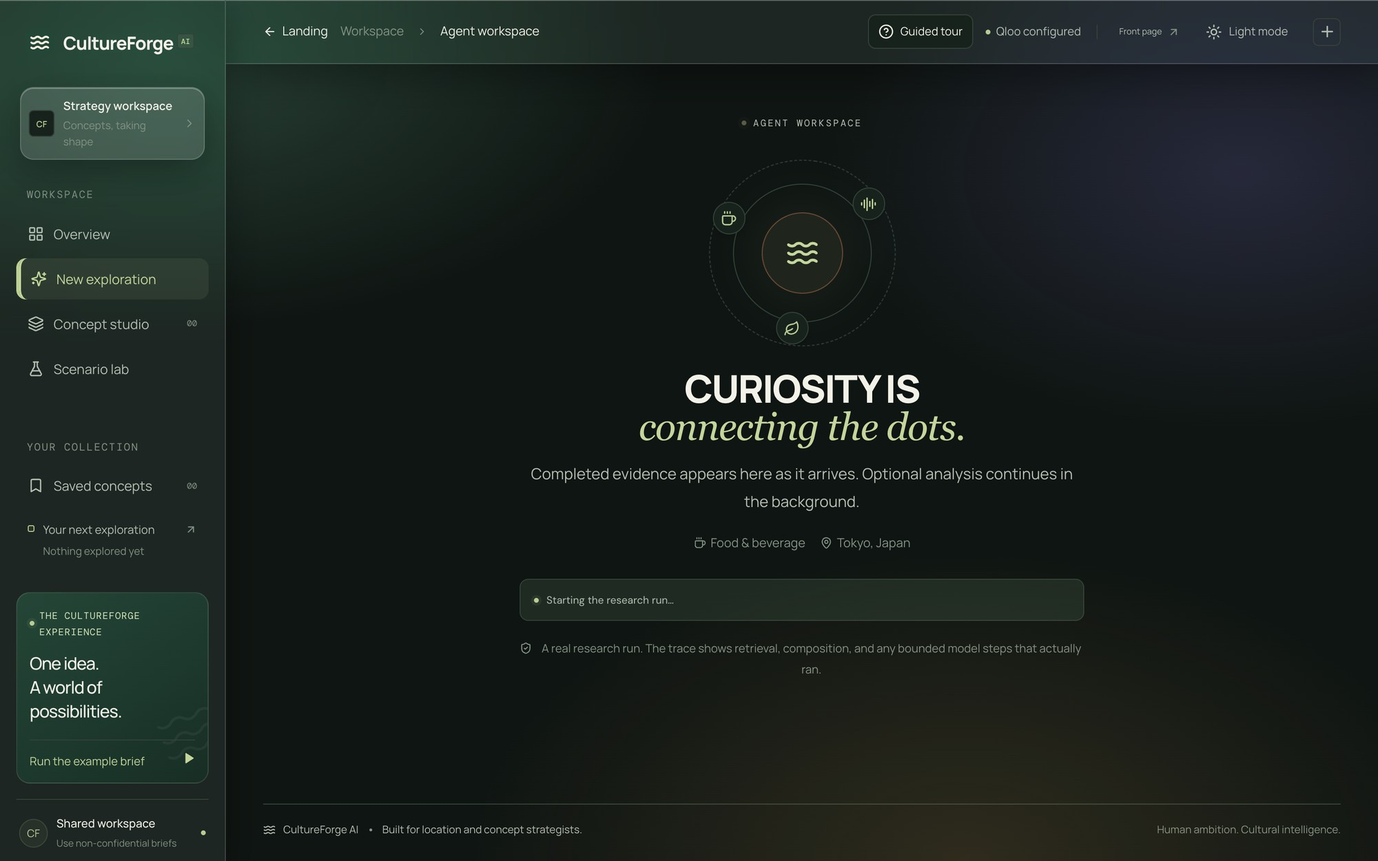
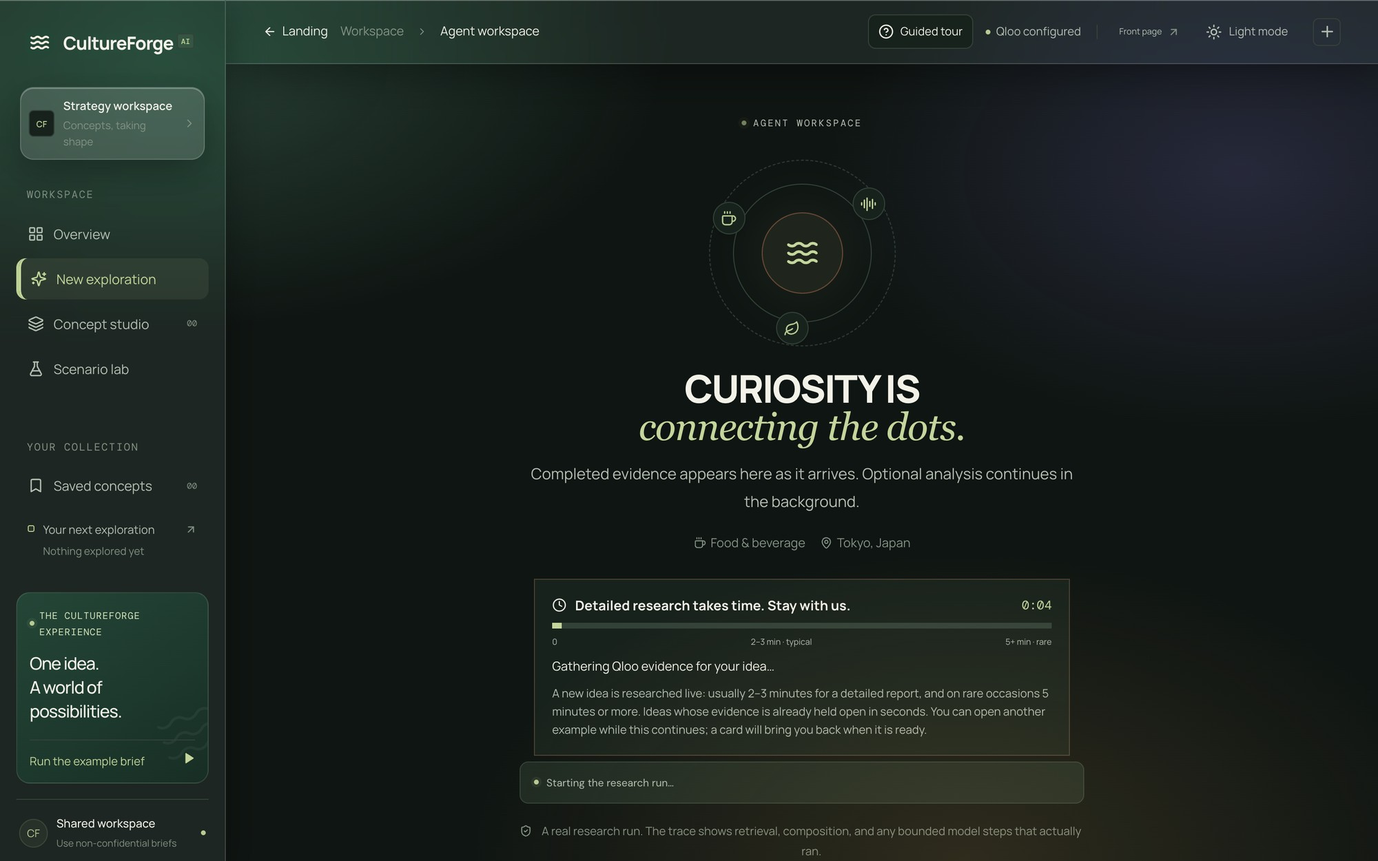
Set run-time expectations and make the map the main thing
- Tell the reader up front that a new idea takes 2-3 minutes (rarely 5+),
  on the brief form, the seed step and the workspace, with a running clock.
- Map: taller canvas, Layers panel collapsed by default, named pins, a
  plain-words key, hover cards, halos on cited pins, higher-contrast
  basemap.
- README: map and workspace screenshots.

diff --git a/src/App.tsx b/src/App.tsx
@@ -18,6 +18,7 @@ import { IntentSummary } from './components/IntentSummary'
 import { AgentTrace } from './components/AgentTrace'
 import { RunMonitor } from './components/RunMonitor'
 import { ExecutiveBrief } from './components/ExecutiveBrief'
+import { RunExpectation, RUN_TIME_NOTE } from './components/RunExpectation'
 import { TasteSeeds } from './components/TasteSeeds'
 import { AudienceComparison } from './components/AudienceComparison'
 import { AnchorTournament } from './components/AnchorTournament'
@@ -730,12 +731,12 @@ function Create({ form, setForm, submit, runExample, error, back }: { form: Proj
   const allGoals = [...new Set([...objectives, ...form.objectives])]
   function toggle(goal: string) { setForm({...form, objectives: form.objectives.includes(goal) ? form.objectives.filter(value => value !== goal) : [...form.objectives, goal]}) }
   const add = () => { const value=custom.trim(); if(value && !form.objectives.includes(value)) toggle(value); setCustom('') }
-  return <div className="create-page" data-tour="brief"><button className="back-link" onClick={back}><ArrowLeft size={14}/> Back to overview</button><div className="page-heading"><div><Eyebrow>THE BEGINNING OF SOMETHING GOOD</Eyebrow><h1>Tell us what you’re<br/><em>dreaming of.</em></h1><p>You bring the ambition. We’ll find the cultural connections.</p></div><span className="page-index">EXPLORATION / 001</span></div><div className="create-layout"><form className="creation-form panel" onSubmit={event => { event.preventDefault(); submit() }}>{error && <div className="api-error" role="alert">{error}</div>}<div className="form-section"><div className="form-section-title"><span>01</span><div><h3>What are you building?</h3><p>Choose the world your idea belongs in.</p></div></div><label className="field"><span>Business idea</span><input id="brief-idea" maxLength={160} value={form.businessIdea ?? ''} onChange={event => setForm({...form, businessIdea: event.target.value})} placeholder="e.g. Artisan bakery, record shop, ceramics studio"/><small>Specific categories help Qloo filter references. Availability and demand still need testing.</small></label><div className="business-types">{types.map(({label,icon:Icon})=><button type="button" className={form.businessType===label?'business-tile selected':'business-tile'} aria-pressed={form.businessType===label} key={label} onClick={()=>setForm({...form,businessType:label})}><Icon size={20}/><span>{label}</span>{form.businessType===label&&<Check size={12}/>}</button>)}</div></div><div className="form-section"><div className="form-section-title"><span>02</span><div><h3>Who do you want to move?</h3><p>Describe the people at the heart of your idea.</p></div></div><label className="field"><span>Target audience</span><div className="input-with-icon"><Users size={16}/><input required minLength={2} maxLength={240} value={form.audience} onChange={event=>setForm({...form,audience:event.target.value})}/></div></label><div className="preset-row"><span>TRY</span>{audiencePresets.slice(0,3).map(preset=><button type="button" key={preset} onClick={()=>setForm({...form,audience:preset})}>{preset}<Plus size={10}/></button>)}</div><div className="field-grid"><label className="field"><span>Location</span><div className="input-with-icon"><MapPin size={16}/><input id="brief-location" required minLength={2} maxLength={160} value={form.location} onChange={event=>setForm({...form,location:event.target.value})}/></div></label><label className="field"><span>Starting budget</span><select value={form.budget} onChange={event=>setForm({...form,budget:event.target.value})}>{['Under $25k','$25k – $50k','$50k – $100k','$100k+','Still figuring it out'].map(budget=><option key={budget}>{budget}</option>)}</select></label></div></div><div className="form-section"><div className="form-section-title"><span>03</span><div><h3>What would success feel like?</h3><p>Select the things that matter to you.</p></div></div><div className="goal-grid">{allGoals.map(goal=><button type="button" className={`goal-chip ${form.objectives.includes(goal)?'selected':''}`} aria-pressed={form.objectives.includes(goal)} key={goal} onClick={()=>toggle(goal)}><span>{form.objectives.includes(goal)?<Check size={12}/>:<Plus size={12}/>}</span>{goal}</button>)}</div><div className="custom-goal"><input aria-label="Custom objective" placeholder="Something else on your mind?" value={custom} onChange={event=>setCustom(event.target.value)} onKeyDown={event=>{if(event.key==='Enter'){event.preventDefault();add()}}}/><button type="button" onClick={add} disabled={!custom.trim()} aria-label="Add custom objective"><Plus size={15}/></button></div></div><div className="form-submit-row"><span><ShieldCheck size={14}/> Your vision stays yours.</span><Button type="submit">Find my cultural edge <ArrowUpRight size={17}/></Button></div></form><aside className="creation-aside"><ExamplePicker onRun={runExample}/><div className="brief-preview panel"><span className="small-cap"><span className="orange-dot"/> YOUR EXPLORATION, AT A GLANCE</span><div className="brief-art"><Fingerprint size={52} strokeWidth={1}/><span/><span/></div><h3>A little context.<br/><em>A lot of possibility.</em></h3><dl><div><dt>Business</dt><dd>{form.businessIdea || form.businessType}</dd></div><div><dt>Location</dt><dd>{form.location || 'Your neighborhood'}</dd></div><div><dt>Budget</dt><dd>{form.budget}</dd></div></dl><div className="brief-deliverables"><span><Check size={13}/> Up to 3 concept directions</span><span><Check size={13}/> Cultural signals & evidence</span><span><Check size={13}/> Audience scenario comparison</span></div></div><div className="curiosity-note"><Lightbulb size={18}/><p><strong>Get specific. Stay curious.</strong>The most interesting connections often start with the smallest details.</p></div></aside></div></div>
+  return <div className="create-page" data-tour="brief"><button className="back-link" onClick={back}><ArrowLeft size={14}/> Back to overview</button><div className="page-heading"><div><Eyebrow>THE BEGINNING OF SOMETHING GOOD</Eyebrow><h1>Tell us what you’re<br/><em>dreaming of.</em></h1><p>You bring the ambition. We’ll find the cultural connections.</p></div><span className="page-index">EXPLORATION / 001</span></div><div className="create-layout"><form className="creation-form panel" onSubmit={event => { event.preventDefault(); submit() }}>{error && <div className="api-error" role="alert">{error}</div>}<div className="form-section"><div className="form-section-title"><span>01</span><div><h3>What are you building?</h3><p>Choose the world your idea belongs in.</p></div></div><label className="field"><span>Business idea</span><input id="brief-idea" maxLength={160} value={form.businessIdea ?? ''} onChange={event => setForm({...form, businessIdea: event.target.value})} placeholder="e.g. Artisan bakery, record shop, ceramics studio"/><small>Specific categories help Qloo filter references. Availability and demand still need testing.</small></label><div className="business-types">{types.map(({label,icon:Icon})=><button type="button" className={form.businessType===label?'business-tile selected':'business-tile'} aria-pressed={form.businessType===label} key={label} onClick={()=>setForm({...form,businessType:label})}><Icon size={20}/><span>{label}</span>{form.businessType===label&&<Check size={12}/>}</button>)}</div></div><div className="form-section"><div className="form-section-title"><span>02</span><div><h3>Who do you want to move?</h3><p>Describe the people at the heart of your idea.</p></div></div><label className="field"><span>Target audience</span><div className="input-with-icon"><Users size={16}/><input required minLength={2} maxLength={240} value={form.audience} onChange={event=>setForm({...form,audience:event.target.value})}/></div></label><div className="preset-row"><span>TRY</span>{audiencePresets.slice(0,3).map(preset=><button type="button" key={preset} onClick={()=>setForm({...form,audience:preset})}>{preset}<Plus size={10}/></button>)}</div><div className="field-grid"><label className="field"><span>Location</span><div className="input-with-icon"><MapPin size={16}/><input id="brief-location" required minLength={2} maxLength={160} value={form.location} onChange={event=>setForm({...form,location:event.target.value})}/></div></label><label className="field"><span>Starting budget</span><select value={form.budget} onChange={event=>setForm({...form,budget:event.target.value})}>{['Under $25k','$25k – $50k','$50k – $100k','$100k+','Still figuring it out'].map(budget=><option key={budget}>{budget}</option>)}</select></label></div></div><div className="form-section"><div className="form-section-title"><span>03</span><div><h3>What would success feel like?</h3><p>Select the things that matter to you.</p></div></div><div className="goal-grid">{allGoals.map(goal=><button type="button" className={`goal-chip ${form.objectives.includes(goal)?'selected':''}`} aria-pressed={form.objectives.includes(goal)} key={goal} onClick={()=>toggle(goal)}><span>{form.objectives.includes(goal)?<Check size={12}/>:<Plus size={12}/>}</span>{goal}</button>)}</div><div className="custom-goal"><input aria-label="Custom objective" placeholder="Something else on your mind?" value={custom} onChange={event=>setCustom(event.target.value)} onKeyDown={event=>{if(event.key==='Enter'){event.preventDefault();add()}}}/><button type="button" onClick={add} disabled={!custom.trim()} aria-label="Add custom objective"><Plus size={15}/></button></div></div><div className="form-submit-row"><span><ShieldCheck size={14}/> Your vision stays yours.</span><small className="submit-time-note">{RUN_TIME_NOTE}</small><Button type="submit">Find my cultural edge <ArrowUpRight size={17}/></Button></div></form><aside className="creation-aside"><ExamplePicker onRun={runExample}/><div className="brief-preview panel"><span className="small-cap"><span className="orange-dot"/> YOUR EXPLORATION, AT A GLANCE</span><div className="brief-art"><Fingerprint size={52} strokeWidth={1}/><span/><span/></div><h3>A little context.<br/><em>A lot of possibility.</em></h3><dl><div><dt>Business</dt><dd>{form.businessIdea || form.businessType}</dd></div><div><dt>Location</dt><dd>{form.location || 'Your neighborhood'}</dd></div><div><dt>Budget</dt><dd>{form.budget}</dd></div></dl><div className="brief-deliverables"><span><Check size={13}/> Up to 3 concept directions</span><span><Check size={13}/> Cultural signals & evidence</span><span><Check size={13}/> Audience scenario comparison</span></div></div><div className="curiosity-note"><Lightbulb size={18}/><p><strong>Get specific. Stay curious.</strong>The most interesting connections often start with the smallest details.</p></div></aside></div></div>
 }
 function Progress({project,runId,onComplete,onClarify,onGiveUp,onRetry,onChangeLocation}:{project:ProjectRequest;runId?:string;onComplete?:(result:GenerateResponse)=>void;onClarify?:(ask:ClarificationAsk)=>void;onGiveUp?:()=>void;onRetry?:()=>void;onChangeLocation?:()=>void}) {
   // The steps are lit by the agent's real events, not by a timer. A run that
   // takes twenty-five seconds must not show every step as complete.
-  return <div className="progress-page"><span className="small-cap"><span className="orange-dot pulse"/> AGENT WORKSPACE</span><div className="agent-orbit"><div className="orbit-outer"/><div className="orbit-middle"/><span className="orbit-icon"><Waves size={35}/></span><span className="satellite sat-one"><Coffee size={17}/></span><span className="satellite sat-two"><AudioLines size={17}/></span><span className="satellite sat-three"><Leaf size={17}/></span></div><h1>Curiosity is<br/><em>connecting the dots.</em></h1><p>Completed evidence appears here as it arrives. Optional analysis continues in the background.</p><div className="progress-context"><span><BusinessIcon type={project.businessType} size={13}/>{project.businessType}</span><span><MapPin size={13}/>{project.location}</span></div>{runId&&<AgentTrace key={runId} runId={runId} onComplete={onComplete as (r:GenerateResponse)=>void} onClarify={onClarify as (a:ClarificationAsk)=>void} onGiveUp={onGiveUp} onRetry={onRetry} onChangeLocation={onChangeLocation}/>}<span className="progress-footnote"><ShieldCheck size={13}/> {runId?'A real research run. The trace shows retrieval, composition, and any bounded model steps that actually ran.':'Waiting for the backend. The answer comes back with the Qloo calls that produced it, and what it cost.'}</span></div>
+  return <div className="progress-page"><span className="small-cap"><span className="orange-dot pulse"/> AGENT WORKSPACE</span><div className="agent-orbit"><div className="orbit-outer"/><div className="orbit-middle"/><span className="orbit-icon"><Waves size={35}/></span><span className="satellite sat-one"><Coffee size={17}/></span><span className="satellite sat-two"><AudioLines size={17}/></span><span className="satellite sat-three"><Leaf size={17}/></span></div><h1>Curiosity is<br/><em>connecting the dots.</em></h1><p>Completed evidence appears here as it arrives. Optional analysis continues in the background.</p><div className="progress-context"><span><BusinessIcon type={project.businessType} size={13}/>{project.businessType}</span><span><MapPin size={13}/>{project.location}</span></div><RunExpectation runId={runId}/>{runId&&<AgentTrace key={runId} runId={runId} onComplete={onComplete as (r:GenerateResponse)=>void} onClarify={onClarify as (a:ClarificationAsk)=>void} onGiveUp={onGiveUp} onRetry={onRetry} onChangeLocation={onChangeLocation}/>}<span className="progress-footnote"><ShieldCheck size={13}/> {runId?'A real research run. The trace shows retrieval, composition, and any bounded model steps that actually ran.':'Waiting for the backend. The answer comes back with the Qloo calls that produced it, and what it cost.'}</span></div>
 }
 
 /**

diff --git a/src/components/map/layers.ts b/src/components/map/layers.ts
@@ -25,7 +25,7 @@ export const EMPTY: GeoJSON.FeatureCollection = { type: 'FeatureCollection', fea
 
 export const LAYER_GROUPS: Record<keyof OverlayVisibility, string[]> = {
   heat: ['cells-heat', 'cells-dot'],
-  venues: ['venue-clusters', 'venue-cluster-count', 'venue-points'],
+  venues: ['venue-clusters', 'venue-cluster-count', 'venue-points', 'venue-labels'],
   context: ['context-halo'],
 }
 
@@ -73,7 +73,7 @@ export function overlayLayers(c: OverlayColors, visible: OverlayVisibility, labe
       'circle-color': c.cellHigh, 'circle-opacity': 0.55, 'circle-stroke-color': c.surface, 'circle-stroke-width': 1,
     } },
     { id: 'context-halo', type: 'circle', source: 'context', layout: show(visible.context), paint: {
-      'circle-radius': 14, 'circle-color': 'rgba(0,0,0,0)', 'circle-stroke-color': c.context, 'circle-stroke-width': 1.6, 'circle-stroke-opacity': 0.85,
+      'circle-radius': 19, 'circle-color': c.context, 'circle-opacity': 0.14, 'circle-stroke-color': c.context, 'circle-stroke-width': 2, 'circle-stroke-opacity': 0.9,
     } },
     { id: 'venue-clusters', type: 'circle', source: 'venues', filter: ['has', 'point_count'], layout: show(visible.venues), paint: {
       'circle-radius': ['step', ['get', 'point_count'], 14, 4, 18, 8, 22] as never,
@@ -82,17 +82,21 @@ export function overlayLayers(c: OverlayColors, visible: OverlayVisibility, labe
       'circle-stroke-width': ['case', ['>', ['get', 'cited'], 0], 2.2, 1.2] as never,
     } },
     { id: 'venue-points', type: 'circle', source: 'venues', filter: ['!', ['has', 'point_count']], layout: show(visible.venues), paint: {
-      'circle-radius': ['match', ['get', 'kind'], 'indirect', 6, 'attraction', 6.5, 7] as never,
+      'circle-radius': ['match', ['get', 'kind'], 'indirect', 8, 'attraction', 8.5, 9] as never,
       'circle-color': ['match', ['get', 'kind'], 'indirect', c.surface, kindColor] as never,
-      'circle-stroke-color': ['match', ['get', 'kind'], 'indirect', c.indirect, 'attraction', c.ink, c.surface] as never,
-      'circle-stroke-width': ['match', ['get', 'kind'], 'indirect', 3, 'attraction', 2.2, 1.6] as never,
+      'circle-stroke-color': ['match', ['get', 'kind'], 'indirect', c.indirect, 'attraction', c.surface, c.surface] as never,
+      'circle-stroke-width': ['match', ['get', 'kind'], 'indirect', 3.5, 'attraction', 2.6, 2.6] as never,
       'circle-opacity': dimmed(1, 0.28), 'circle-stroke-opacity': dimmed(1, 0.28),
     } },
     { id: 'selected-ring', type: 'circle', source: 'selected', paint: {
-      'circle-radius': 18, 'circle-color': 'rgba(0,0,0,0)', 'circle-stroke-color': c.ink, 'circle-stroke-width': 2.4,
+      'circle-radius': 22, 'circle-color': 'rgba(0,0,0,0)', 'circle-stroke-color': c.ink, 'circle-stroke-width': 2.4,
     } },
   ]
   if (labels) {
+    // Names beside the pins, so a reader never has to hover to learn what a dot is.
+    layers.splice(layers.findIndex((l) => l.id === 'venue-points') + 1, 0, { id: 'venue-labels', type: 'symbol', source: 'venues', filter: ['!', ['has', 'point_count']], minzoom: 11.5, layout: {
+      ...show(visible.venues), 'text-field': ['get', 'label'] as never, 'text-font': ['Noto Sans Regular'], 'text-size': 12.5, 'text-anchor': 'top', 'text-offset': [0, 1.15], 'text-max-width': 9, 'text-optional': true,
+    }, paint: { 'text-color': c.ink, 'text-halo-color': c.surface, 'text-halo-width': 2, 'text-opacity': dimmed(1, 0.35) } })
     layers.splice(4, 0, { id: 'venue-cluster-count', type: 'symbol', source: 'venues', filter: ['has', 'point_count'], layout: {
       ...show(visible.venues), 'text-field': ['get', 'point_count_abbreviated'] as never, 'text-font': ['Noto Sans Regular'], 'text-size': 12, 'text-allow-overlap': true,
     }, paint: { 'text-color': c.ink } })

diff --git a/src/components/map/OpportunityMap.tsx b/src/components/map/OpportunityMap.tsx
@@ -55,6 +55,7 @@ export function OpportunityMap({
   cellsControl: ReactNode
 }) {
   const uid = useId()
+  const [tip, setTip] = useState<{ x: number; y: number; label: string; kind: string; cited: boolean } | null>(null)
   const location = project.location
   const containerRef = useRef<HTMLDivElement | null>(null)
   const mapRef = useRef<MapLibreMap | null>(null)
@@ -63,7 +64,7 @@ export function OpportunityMap({
   const [status, setStatus] = useState<Status>('loading')
   const [basemap, setBasemap] = useState<{ mode: BasemapMode; reason: string }>({ mode: 'streets', reason: '' })
   const [visible, setVisible] = useState<OverlayVisibility>({ heat: true, venues: true, context: true })
-  const [layersOpen, setLayersOpen] = useState(() => !window.matchMedia?.('(max-width: 600px)').matches)
+  const [layersOpen, setLayersOpen] = useState(false)
   const [focus, setFocus] = useState(true)
   const [venueId, setVenueId] = useState<string | null>(null)
   const [cellIndex, setCellIndex] = useState<number | null>(null)
@@ -242,6 +243,12 @@ export function OpportunityMap({
         m.on('mouseenter', id, () => { canvas.style.cursor = 'pointer' })
         m.on('mouseleave', id, () => { canvas.style.cursor = '' })
       }
+      // A name and a plain-words kind follow the pointer over a pin.
+      m.on('mousemove', CLICKABLE.venue, (event: MapLayerMouseEvent) => {
+        const props = event.features?.[0]?.properties
+        if (props && typeof props.label === 'string') setTip({ x: event.point.x, y: event.point.y, label: props.label, kind: String(props.kind), cited: props.cited === 1 })
+      })
+      m.on('mouseleave', CLICKABLE.venue, () => setTip(null))
       m.on('movestart', (event) => { if ((event as { originalEvent?: unknown }).originalEvent) { userMoved.current = true; mark(0) } })
       m.on('moveend', () => {
         if (!framed.current) return
@@ -449,6 +456,10 @@ export function OpportunityMap({
         {status !== 'failed' && <LayersPanel open={layersOpen} setOpen={setLayersOpen} visible={visible} setVisible={setVisible} counts={counts}
           heatLegend={heatLegend} cellsControl={cellsControl} contextNote={contextNote}/>}
         <div ref={containerRef} className="ox-canvas"/>
+        {tip && <div className="ox-tip" style={{ left: tip.x + 14, top: tip.y + 14 }} role="presentation"><strong>{tip.label}</strong><span>{KIND_WORDS[tip.kind as keyof typeof KIND_WORDS] ?? tip.kind}{tip.cited ? ' · cited by this direction' : ''}</span><em>Click for details</em></div>}
+        {status === 'ready' && plotted.length > 0 && <ul className="ox-keybar" aria-label="What the pins mean">
+          <li><i className="ox-dot is-direct"/>Direct match</li><li><i className="ox-dot is-indirect"/>Related business</li><li><i className="ox-dot is-attraction"/>Cultural attraction</li><li><i className="ox-ring"/>Cited by this direction</li>
+        </ul>}
         {status === 'loading' && <div className="ox-skeleton" role="status"><span/>Loading the street map…</div>}
         {status === 'failed' && <p className="ox-overlay" role="alert">This browser could not start the map (WebGL is unavailable or blocked). Every venue and its status is listed beside it.</p>}
         {status === 'ready' && !anyEvidence && geo.pending === 0 && <p className="ox-overlay is-soft">Nothing in this exploration has a verified coordinate yet, so the map is not centred on {location}. CultureForge does not guess where a city is. The venues and their reasons are listed beside the map.</p>}

diff --git a/src/wildroot.css b/src/wildroot.css
@@ -820,7 +820,7 @@
 .ox-chip.is-on { border-color: var(--map-context); color: var(--text); background: var(--accent-wash); }
 .ox-body { display: grid; grid-template-columns: minmax(0, 1fr) minmax(280px, 360px); min-width: 0; }
 .ox-stage { position: relative; min-width: 0; background: var(--map-ground); border-right: 1px solid var(--line); }
-.ox-canvas { height: 520px; width: 100%; }
+.ox-canvas { height: clamp(560px, 74vh, 780px); width: 100%; }
 .ox-canvas canvas:focus-visible { outline: 2px solid var(--accent); outline-offset: -2px; }
 .ox-overlay { position: absolute; inset: 0; margin: 0; display: grid; place-items: center; padding: 24px; text-align: center;
   font: 400 13px/1.6 var(--font-sans); color: var(--muted); background: var(--map-ground); }
@@ -1820,3 +1820,23 @@ body:has(.guided-tour) .run-dock { right: auto; left: 250px; }
 .evidence-chip:hover { border-color: var(--accent); color: var(--accent); }
 .exec-brief footer { display: flex; flex-wrap: wrap; justify-content: space-between; align-items: center; gap: 10px 20px; border-top: 1px solid var(--line); padding-top: 14px; }
 @media (max-width: 720px) { .exec-brief { padding: 20px 18px; } .exec-grid { grid-template-columns: 1fr; } }
+
+/* --- What a run costs in time ------------------------------------------------ */
+.run-expectation { width: min(560px, 100%); margin: 18px auto 6px; padding: 16px 18px; border: 1.5px solid var(--card-edge); background: var(--surface); text-align: left; display: grid; gap: 8px; }
+.run-expectation-head { display: flex; align-items: center; gap: 9px; font-size: 14px; }
+.run-expectation-head span { margin-left: auto; font: 13px 'DM Mono', monospace; color: var(--accent); }
+.run-expectation-bar { height: 6px; background: var(--line); overflow: hidden; }
+.run-expectation-bar span { display: block; height: 100%; background: var(--accent); transition: width 1s linear; }
+.run-expectation-scale { display: flex; justify-content: space-between; color: var(--muted); font-size: 11px; }
+.run-expectation p { margin: 0; font-size: 13px; line-height: 1.6; color: var(--text); }
+.run-expectation .run-expectation-note { color: var(--muted); font-size: 12px; }
+.submit-time-note, .taste-seed-time { display: block; flex: 1 1 100%; color: var(--muted); font-size: 12px; line-height: 1.6; margin: 0; }
+.form-submit-row { flex-wrap: wrap; }
+
+/* --- The map, made the main thing -------------------------------------------- */
+.ox-tip { position: absolute; z-index: 3; pointer-events: none; max-width: 240px; display: grid; gap: 2px; padding: 9px 12px; border: 1.5px solid var(--card-edge); background: var(--surface); color: var(--text); box-shadow: 4px 4px 0 var(--card-shadow); font-size: 12px; line-height: 1.4; }
+.ox-tip strong { font-size: 13px; }
+.ox-tip span, .ox-tip em { color: var(--muted); font-style: normal; }
+.ox-keybar { position: absolute; left: 12px; bottom: 34px; z-index: 2; margin: 0; padding: 8px 12px; list-style: none; display: flex; flex-wrap: wrap; gap: 6px 14px; max-width: calc(100% - 24px); border: 1px solid var(--line); background: var(--map-glass, var(--surface)); backdrop-filter: blur(8px); font-size: 12px; color: var(--text); }
+.ox-keybar li { display: inline-flex; align-items: center; gap: 7px; }
+.ox-ring { width: 14px; height: 14px; border-radius: 50%; border: 2px solid var(--map-context); background: rgba(127,127,127,.15); display: inline-block; }

diff --git a/src/components/map/style.ts b/src/components/map/style.ts
@@ -23,9 +23,9 @@ export type BasemapMode = 'streets' | 'grid'
 
 const PALETTE: Record<Theme, Record<string, string>> = {
   dark: {
-    background: '#111814', water: '#142731', landcover: '#15211a', park: '#17281d', landuse: '#141d18', building: '#1b251f',
-    minor: '#232f28', major: '#2f3d34', motorway: '#45513d', casing: '#0c110e', boundary: '#4b5a4f',
-    label: '#97a598', labelMajor: '#c9d2c6', halo: '#111814', grid: '#2a362f',
+    background: '#16201a', water: '#1d3b4d', landcover: '#1b2b21', park: '#234a2f', landuse: '#18241d', building: '#27352c',
+    minor: '#34443a', major: '#4b5d51', motorway: '#6b7a4a', casing: '#0d130f', boundary: '#6a7c6e',
+    label: '#b8c6b9', labelMajor: '#e6eee3', halo: '#121a15', grid: '#2a362f',
   },
   light: {
     background: '#eef0e6', water: '#c6d7dc', landcover: '#e2e8d5', park: '#d8e4c9', landuse: '#e9ebe0', building: '#dfdfd3',
@@ -46,7 +46,7 @@ function basemapLayers(theme: Theme): LayerSpecification[] {
     { id: 'bm-landuse', type: 'fill', source: src, 'source-layer': 'landuse', paint: { 'fill-color': c.landuse, 'fill-opacity': 0.6 } },
     { id: 'bm-park', type: 'fill', source: src, 'source-layer': 'park', paint: { 'fill-color': c.park, 'fill-opacity': 0.85 } },
     { id: 'bm-water', type: 'fill', source: src, 'source-layer': 'water', paint: { 'fill-color': c.water } },
-    { id: 'bm-building', type: 'fill', source: src, 'source-layer': 'building', minzoom: 14, paint: { 'fill-color': c.building, 'fill-opacity': ['interpolate', ['linear'], ['zoom'], 14, 0, 15, 0.9] as unknown as number } },
+    { id: 'bm-building', type: 'fill', source: src, 'source-layer': 'building', minzoom: 13, paint: { 'fill-color': c.building, 'fill-opacity': ['interpolate', ['linear'], ['zoom'], 13, 0, 14.5, 0.95] as unknown as number } },
     { id: 'bm-boundary', type: 'line', source: src, 'source-layer': 'boundary', filter: ['all', ['<=', ['get', 'admin_level'], 4], ['!=', ['get', 'maritime'], 1]] as never, minzoom: 3,
       paint: { 'line-color': c.boundary, 'line-width': 1, 'line-dasharray': [3, 2] } },
     { id: 'bm-road-minor', type: 'line', source: src, 'source-layer': 'transportation', minzoom: 12,

diff --git a/src/components/RunExpectation.tsx b/src/components/RunExpectation.tsx
@@ -1,0 +1,38 @@
+import { useEffect, useState } from 'react'
+import { Clock } from 'lucide-react'
+
+/** What to expect from a research run, said before and while it runs. */
+export const RUN_TIME_NOTE = 'A new idea is researched live: usually 2–3 minutes for a detailed report, and on rare occasions 5 minutes or more. Ideas whose evidence is already held open in seconds.'
+
+function clock(seconds: number) {
+  return `${Math.floor(seconds / 60)}:${String(seconds % 60).padStart(2, '0')}`
+}
+
+/**
+ * The reader is told what a run costs in time, and where they are in it. The
+ * bar is the typical range, not a progress claim: the steps below are what
+ * actually happened.
+ */
+export function RunExpectation({ runId }: { runId?: string }) {
+  const [seconds, setSeconds] = useState(0)
+  useEffect(() => {
+    setSeconds(0)
+    const started = Date.now()
+    const timer = window.setInterval(() => setSeconds(Math.floor((Date.now() - started) / 1000)), 1000)
+    return () => window.clearInterval(timer)
+  }, [runId])
+  const typical = Math.min(seconds / 180, 1)
+  const phase = seconds < 20 ? 'Gathering Qloo evidence for your idea…'
+    : seconds < 180 ? 'Researching places, audience signals and cross-domain taste. This is the usual stretch.'
+    : seconds < 300 ? 'Still working. A detailed report can take up to five minutes.'
+    : 'This is one of the rare long runs. The research is still going; you can explore other examples meanwhile.'
+  return (
+    <div className="run-expectation" role="status">
+      <div className="run-expectation-head"><Clock size={15} /><strong>Detailed research takes time. Stay with us.</strong><span>{clock(seconds)}</span></div>
+      <div className="run-expectation-bar" aria-hidden="true"><span style={{ width: `${typical * 100}%` }} /></div>
+      <div className="run-expectation-scale" aria-hidden="true"><small>0</small><small>2–3 min · typical</small><small>5+ min · rare</small></div>
+      <p>{phase}</p>
+      <p className="run-expectation-note">{RUN_TIME_NOTE} You can open another example while this continues; a card will bring you back when it is ready.</p>
+    </div>
+  )
+}

diff --git a/src/components/TasteSeeds.tsx b/src/components/TasteSeeds.tsx
@@ -1,3 +1,4 @@
+import { RUN_TIME_NOTE } from './RunExpectation'
 import type { TasteSeed } from '../api'
 
 /**
@@ -67,6 +68,7 @@ export function TasteSeeds({
         })}
       </ul>
 
+      <p className="taste-seed-time">{RUN_TIME_NOTE}</p>
       <div className="taste-seed-actions">
         <button className="button button-secondary" onClick={onCancel} disabled={busy}>Back</button>
         <button

diff --git a/README.md b/README.md
@@ -47,13 +47,21 @@ willingness to pay.
 
 *The guided tour follows the reader to each step and highlights what it describes.*
 
+![The cultural opportunity map, Tokyo, dark theme](docs/screenshots/map-tokyo-dark.jpg)
+
+*The map, made for non-technical readers: a real street map with named pins, a plain-words key, hover cards and a clickable venue list. Pins are address matches, never surveyed points.*
+
+![The cultural opportunity map, Paris, light theme](docs/screenshots/map-paris-light.jpg)
+
+*The same map in the light theme. Pins the selected direction cites carry a halo; the rest fade back.*
+
 ![Scenario lab: same vision, a different audience](docs/screenshots/scenario-lab.jpg)
 
 *Scenario lab. Change the audience or the place and let Qloo measure what changes.*
 
 ![The agent workspace while a run is in progress](docs/screenshots/agent-workspace.jpg)
 
-*The agent workspace, showing the steps of a real research run.*
+*The agent workspace tells the reader what to expect: usually 2–3 minutes for a brand-new idea, rarely 5 or more, while held ideas open in seconds.*
 
 <img src="docs/screenshots/mobile-brief.jpg" alt="The studio on a phone" width="260"/>
 
